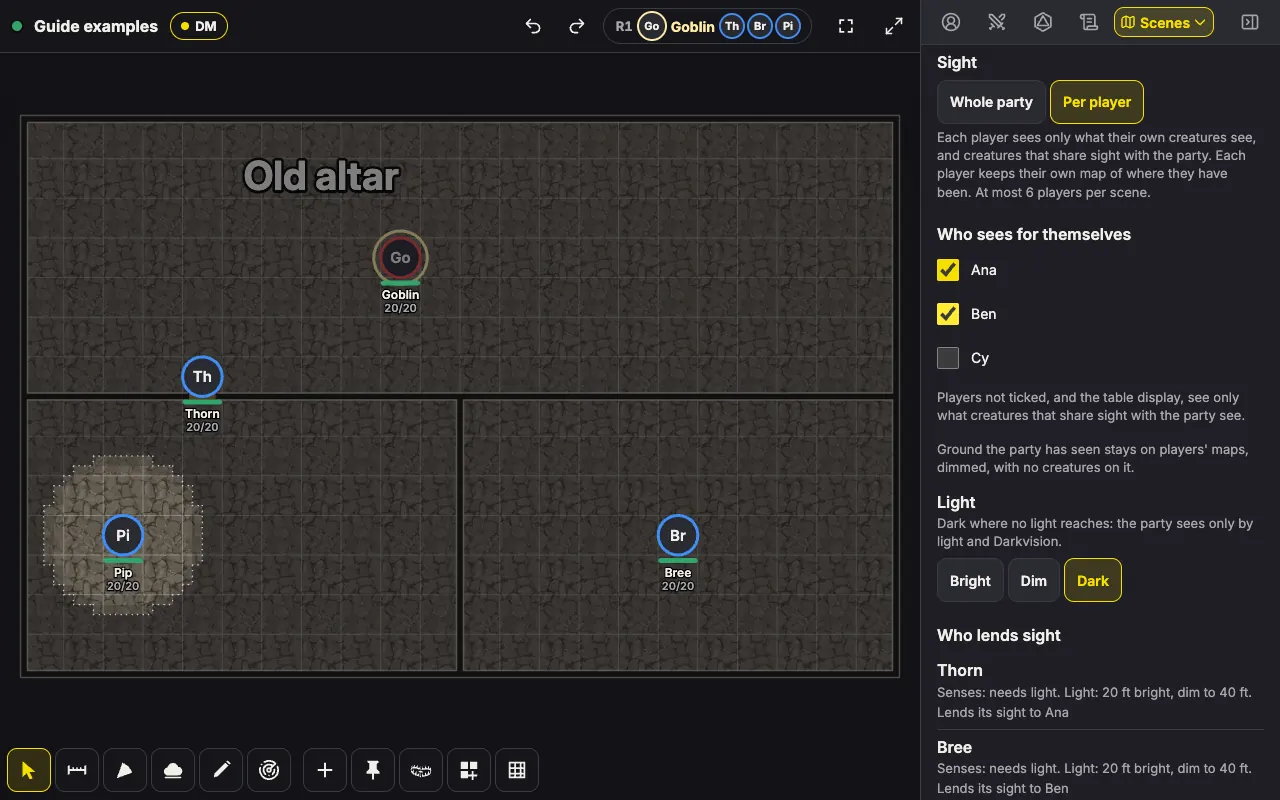
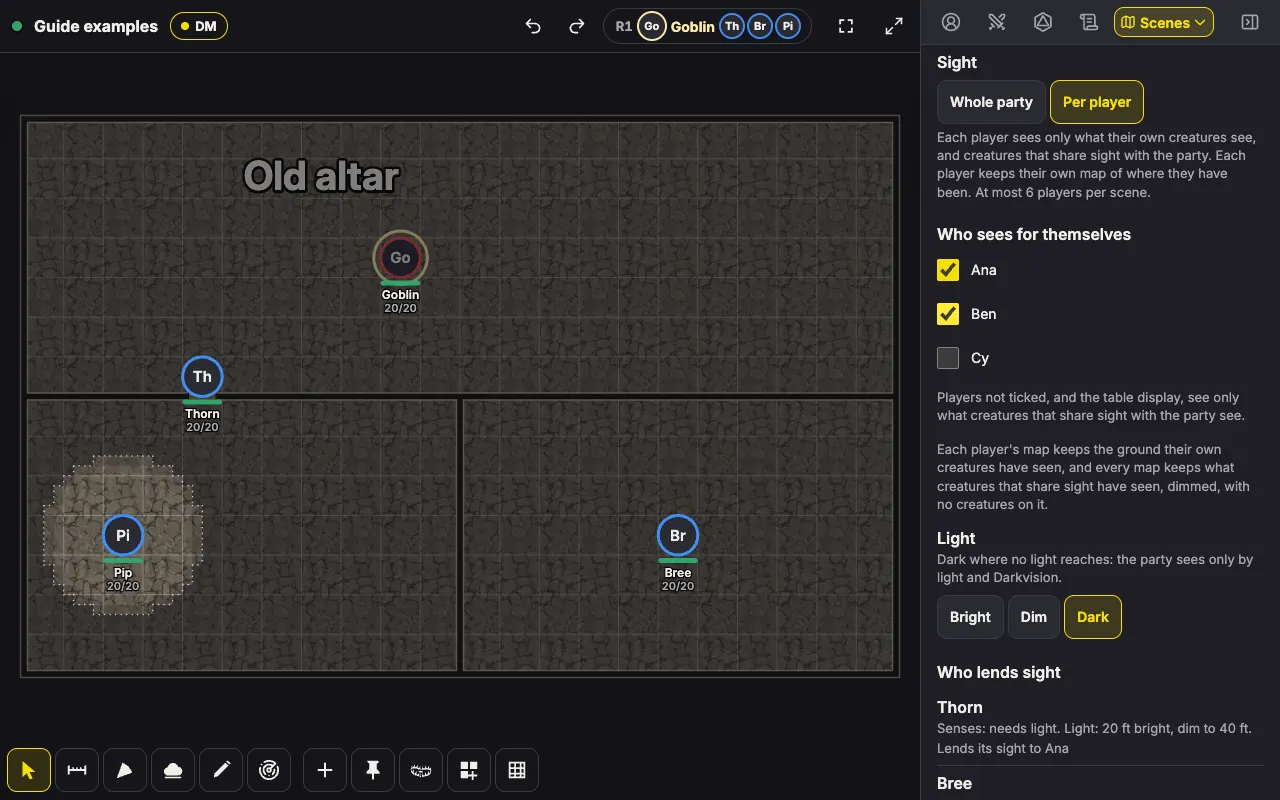
docs: the guide's fog and places say what the code does, the fog line's picture is retaken, and pv5's review round 1 is in the as built

Changed region(s): [[0.7188, 0.5312, 0.9688, 1.0]]

diff --git a/docs/design-v1-per-player-vision.md b/docs/design-v1-per-player-vision.md
@@ -397,7 +397,7 @@ Door memory per player (decision 8, its own feature if the owner asks). Traps fo
 - **Older log pages in the preview** ask `as`, and a page the server answers is taken only when it names that player (`LogPage.as`, D-261026-10). A page without it, or naming anyone else, shows the panel's "Could not load older messages.", so a server that ignores `as` never puts the DM's log in the preview. The rule is `client/panels/olderLog.ts`, tested on its own, and step pv4-4 of `e2e/vision.e2e.ts` pages the Log in the preview, with the run answering the preview's socket and the log pages in the server's place until PV3.
 - **View as a player** no longer moves the DM to the players' scene, and its help drops "This also takes you to the players' scene." The banner keeps "Viewing as Ana." and adds "Whispers between players are not shown.", and the toast notice it uses where no banner shows reads 7.4's sentence whole.
 - **Outside the owned files**, kept minimal: `client/features/dm/ViewControls.tsx` (no scene switch), `client/lib/api.ts`, `client/panels/LogPanel.tsx` and the new `client/panels/olderLog.ts` (the preview's older log pages ask `as` and are refused unless answered as that player), `e2e/harness.ts` (`SocketWatch` leaves a preview socket out, which would otherwise put the player's snapshot in place of the DM's), the new roots in `e2e/alignmentRoom.ts`, and the pv4 steps of `e2e/vision.e2e.ts`, which drive the list from a second DM page whose sent frames they read, and the preview's Log from a third.
-- **Left to PV3**: the server side of `/ws?as=` and the log endpoint's `as`, whose page must name the member it was answered as (`as`), or the preview's older pages read "Could not load older messages." Until it lands, View as a player says it could not load (the server answers with the DM's own view, which the socket refuses), so every e2e step that opens the preview waits on PV3. The dev fixture's local server has no `as` either.
+- **Left to PV3**: the server side of `/ws?as=` and the log endpoint's `as`, whose page must name the member it was answered as (`as`), or the preview's older pages read "Could not load older messages." Until it lands, View as a player says it could not load (the server answers with the DM's own view, which the socket refuses), so every e2e step that opens the preview waits on PV3. The dev fixture's local server has no `as` either (PV5 adds it).
 
 **PV3** (server). Every place the build went its own way, and what it leaves to later lanes:
 
@@ -414,7 +414,7 @@ Door memory per player (decision 8, its own feature if the owner asks). Traps fo
 - **Outside the owned files**, kept minimal: `shared/rules/vision.ts` (`keepRaster`'s order, above), `shared/reducer/map.ts` (the fold forgets layers past a per-player scene's bounds), `shared/project.ts` (the drag preview's sentence moved from `withheldWhereItStands`'s comment to `withheldFromViewer`'s, review PV3-OPUS-5), and `scripts/bench-server4.ts` (the fog-off rows below).
 - **Bench (PV2-G1).** The gate reads the per-player fan-out rows ("Sight fan-out for all players in one batch, ... per player with 6 holders"), against their 10 ms budget on the server box and 6.7 ms (10 over 1.5) on a laptop. On the laptop they are 2.4 ms bright and 2.2 ms dark (7.9 and 14.2 before), all of it projection, its sight diffs and the sends, with 0.0 ms drawing rasters. Rows for a player's move with fog off read 1.3 ms bright and 1.4 dark, with no raster drawn (review PV3-OPUS-4). Every row passes, so the cap rule of 8.1 did not apply. The per-player op rows grew by 2 to 3 ms, the cost of an explore step those scenes did not have before. The tightest is a source placed or removed on the dark scene, 15.7 to 16.8 ms over four runs against 16.7 on the laptop (25 on the server box), where the whole-party rows of the same runs moved by as much. The bench's `--server` run needs the reference server, so it is left to the deploy.
 - **Equivalent mutants**, which no test can fail: the explore step's skip of a holder whose sight is the shared object, since that holder's own bits would all be shared ones, and the drag judgment's early answer with vision and fog both off, since nothing is withheld then either way.
-- **Left to later lanes**: FEATURES.md and the DM guide (PV5), which also says what risk 6 of 8.3 says. The dev fixture's local server still has no `as`.
+- **Left to later lanes**: FEATURES.md and the DM guide (PV5), which also says what risk 6 of 8.3 says. The dev fixture's local server still has no `as` (PV5 adds it).
 
 **PV5** (integration and docs). Every place the build went its own way:
 
@@ -424,6 +424,10 @@ Door memory per player (decision 8, its own feature if the owner asks). Traps fo
 - **PV2-ASTRA-4**: `shared/rules/vision.test.ts` takes a bright 16 x 16 scene with a source at (7, 7) that has blindsight 150 ft, turns Blinded on and requires its holder's raster to go from bright to grey, equal to a cold computation. It fails with `stateAt`'s `let bits = 1`, and PV2's notes above no longer call that mutant equivalent.
 - **Guide pictures** come from `scripts/guide-pervision.ts`, which runs the real server on the production build and writes `vision-per-player.webp`, `view-as-ana.webp` and `view-as-ben.webp` at 1280 x 800, as the guide's other pictures are. `vision-settings.webp` predates the Sight row and is not retaken here: it shows the guide's crypt, which the guide pass's own steps build.
 - **The guide's list of what players can still work out** says what risks 2 to 6 say, in the guide's words, the explore op's number (risk 6, D-261026-14) right after the notes on doors, areas and light.
+- **Review round 1.** pv-8 also reads every frame Ben's page and the display received as sent, of every kind: before the pool none names the goblin or holds the label's words, and none ever holds `"holders:`, `"exploredAny:`, `exploredBy` or `seenBy`, which no player frame holds by right. Its replay judges the goblin's row too. A new step, pv-2b, has the DM drag the goblin within Thorn's light, so Ana's page gets drag frames and pv-8 fails when the drag's visibility filter is bypassed. Leaving out only the preview spot's check (`withheld`) is equivalent in that run, since the goblin is out of Ben's projection and `tokenVisibleTo` already refuses it (PV5-ASTRA-1, PV5-OPUS-2).
+- **Review round 1.** The guide's Fog section says what the code does: Add fog makes players forget the ground under its shape, every player's own map included, except ground their creatures see right now, and undo never brings back what it erased (PV5-ASTRA-3, PV5-OPUS-1). Its holder list now says a player's first seeing creature gives them a place and exploring never moves one (PV5-OPUS-3).
+- **Review round 1.** The dev room builds a late snapshot when its wait ends, for a preview and the room's own socket alike, so no event reaches a client before its snapshot (PV5-ASTRA-2). A socket closed while it connects never opens and registers no preview (PV5-ASTRA-4).
+- **Review round 1.** `fogNote` (`client/features/vision/settings.ts`, PV4's) reads the scene's `perPlayer`: on a per-player scene the fog line speaks of each player's own map and of what creatures that share sight add to every map, with fog on and off. `vision-per-player.webp` is taken again with it, and the script now gives Thorn the smaller token id, so he leads Who lends sight in every run's picture (PV5-OPUS-5).
 
 ## 15. Review dispositions
 

diff --git a/docs/dm-guide.md b/docs/dm-guide.md
@@ -366,7 +366,7 @@ On a per-player scene, each player sees what their own creatures see: their char
 
 A creature that shares sight sees by any light, as every creature does, a character's torch included. So if your lantern-carrying hireling stands in the same hall as Thorn, it sees the goblin in Thorn's torchlight too, and so does every player. Keep such a creature somewhere of its own when you want each player's view to stay their own.
 
-![Sight set to Per player in the Vision settings of the chapel ruins: Ana and Ben ticked under Who sees for themselves and Cy not, and Thorn lending his sight to Ana and Bree hers to Ben. On the map, the goblin and the Old altar lie in Thorn's torchlight, and Pip holds a candle in the west room.](dm-guide/vision-per-player.webp)
+![Sight set to Per player in the chapel ruins' Vision settings: Ana and Ben ticked under Who sees for themselves and Cy not, the line on each player's map, and Thorn lending his sight to Ana. On the map, the goblin and the Old altar lie in Thorn's torchlight, and Pip holds a candle in the west room.](dm-guide/vision-per-player.webp)
 
 **Each player keeps their own map.** The ground a player's creatures have seen stays on that player's map, dimmed, just as explored ground does for the whole party, and ground seen by a creature that shares sight goes on everyone's map. So when Thorn explores the chapel, the ground stays unexplored on Bree's player's map, and a label or pin you put there reaches only the players whose maps show it. Your fog tools still work on everyone's map at once: a reveal shows ground to every player, **Add fog** makes every player forget the ground under it, and **Fog all** wipes every player's memory of the scene.
 
@@ -378,7 +378,7 @@ A creature that shares sight sees by any light, as every creature does, a charac
 
 - Tick a player to give them a place. With 6 already ticked, the list asks you to untick someone first.
 - Untick a player to take their place away. The app asks first, because they forget their map of this scene. Their row then says they see only what creatures that share sight see.
-- Places are sticky. A player keeps theirs when their character falls unconscious or steps off the scene for a while, and exploring never changes the list: only your ticks do. So at a big table, where more than 6 players could see for themselves, decide who should and tick them yourself.
+- Places are sticky. A player keeps theirs when their character falls unconscious or steps off the scene for a while. A player gets a place on their own only the first time they own a creature that can see there, and after that only your ticks change who holds one: exploring never moves a place from one player to another. So at a big table, where more than 6 players could see for themselves, decide who should and tick them yourself.
 
 Under the list, **Who lends sight** shows each creature with its senses and light, and whose sight it adds to: "Lends its sight to Ana", "Lends its sight to Ana and Ben", or "Lends its sight to every player" for a creature that shares sight with the party.
 
@@ -414,7 +414,7 @@ The draft lets you set up a reveal, check it, and show it all at once. If you wo
 
 **Builder room** fills everything joined to the room you tap, and only walls, windows and closed doors stop it. Close the doors between rooms first, or the reveal spills into the next room.
 
-**With party vision on**, the players' fog also remembers what the party has explored, and **Add fog** can't hide explored ground again. Only **Fog all** makes the players forget it. If you undo a Fog all, the ground you had revealed is revealed again, but the party's memory of what it explored doesn't come back, so anything the party had only explored stays fogged until the party sees it again or you reveal it. On a scene where each player sees for themselves, **Add fog** and **Fog all** reach every player's own map as well.
+**With party vision on**, the players' fog also remembers what the party has explored. **Add fog** makes the players forget the ground under its shape, the map the party shares and, on a scene where each player sees for themselves, every player's own map too. The one exception is ground their creatures can see right now, which they explore again at once. **Fog all** makes them forget the whole scene. Undo brings back your own fog edits, but never the memory they erased: if you undo a Fog all, the ground you had revealed is revealed again, but anything the party had only explored stays fogged until the party sees it again or you reveal it.
 
 ## Map phases, imports and exports
 
